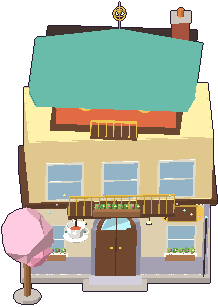
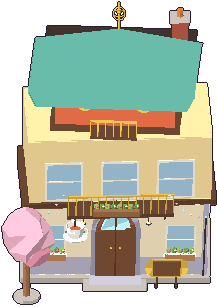
Buildings track BD-5: the INN board on posts beside the steps, in view from the orbit camera
Claude-Session: https://claude.ai/code/session_019UpAFzwkCA8UjAyzSzcLiu

diff --git a/tools/build-civic.py b/tools/build-civic.py
@@ -331,9 +331,11 @@ def inn():
           box(1.9, Dp - 0.6, z3 + 0.6, 0.6, 0.6, 0.08, STONE, 'stone', name='chimney cap'),
           cyl(1.9, Dp - 0.6, z3 + 0.68, 0.1, 0.2, COPPER, 'metal', sides=8, name='chimney pot')]
     M.smoke = (1.9, z3 + 1.2)
-    # the teacup sign by the door; the INN board on the wall over the right window, clear of the balcony
+    # the teacup sign by the door; the INN board on two posts beside the steps (low: the balcony hides the wall under
+    # it from the orbit camera)
     L += teacup_sign(-1.25, -0.02, z1 - 0.7)
-    L += word_board(2.0, -0.04, 1.9, 'INN', '#7A4E34', '#F8E8B0', '#3A2418')
+    L += word_board(1.6, -0.5, 0.42, 'INN', '#7A4E34', '#F8E8B0', '#3A2418')
+    L += [box(1.6 + sx * 0.3, -0.45, 0, 0.06, 0.06, 0.45, '#60402C', 'wood', name='board post') for sx in (-1, 1)]
     # C's showpieces: string lights from the balcony to a post by the tree; the blossom street tree
     L += string_lights((-1.6, -0.93, z1 + 0.7), (-2.75, -1.1, 2.4), 6, 0.22)
     L += string_lights((1.6, -0.93, z1 + 0.7), (2.75, -0.1, 2.0), 6, 0.2)
